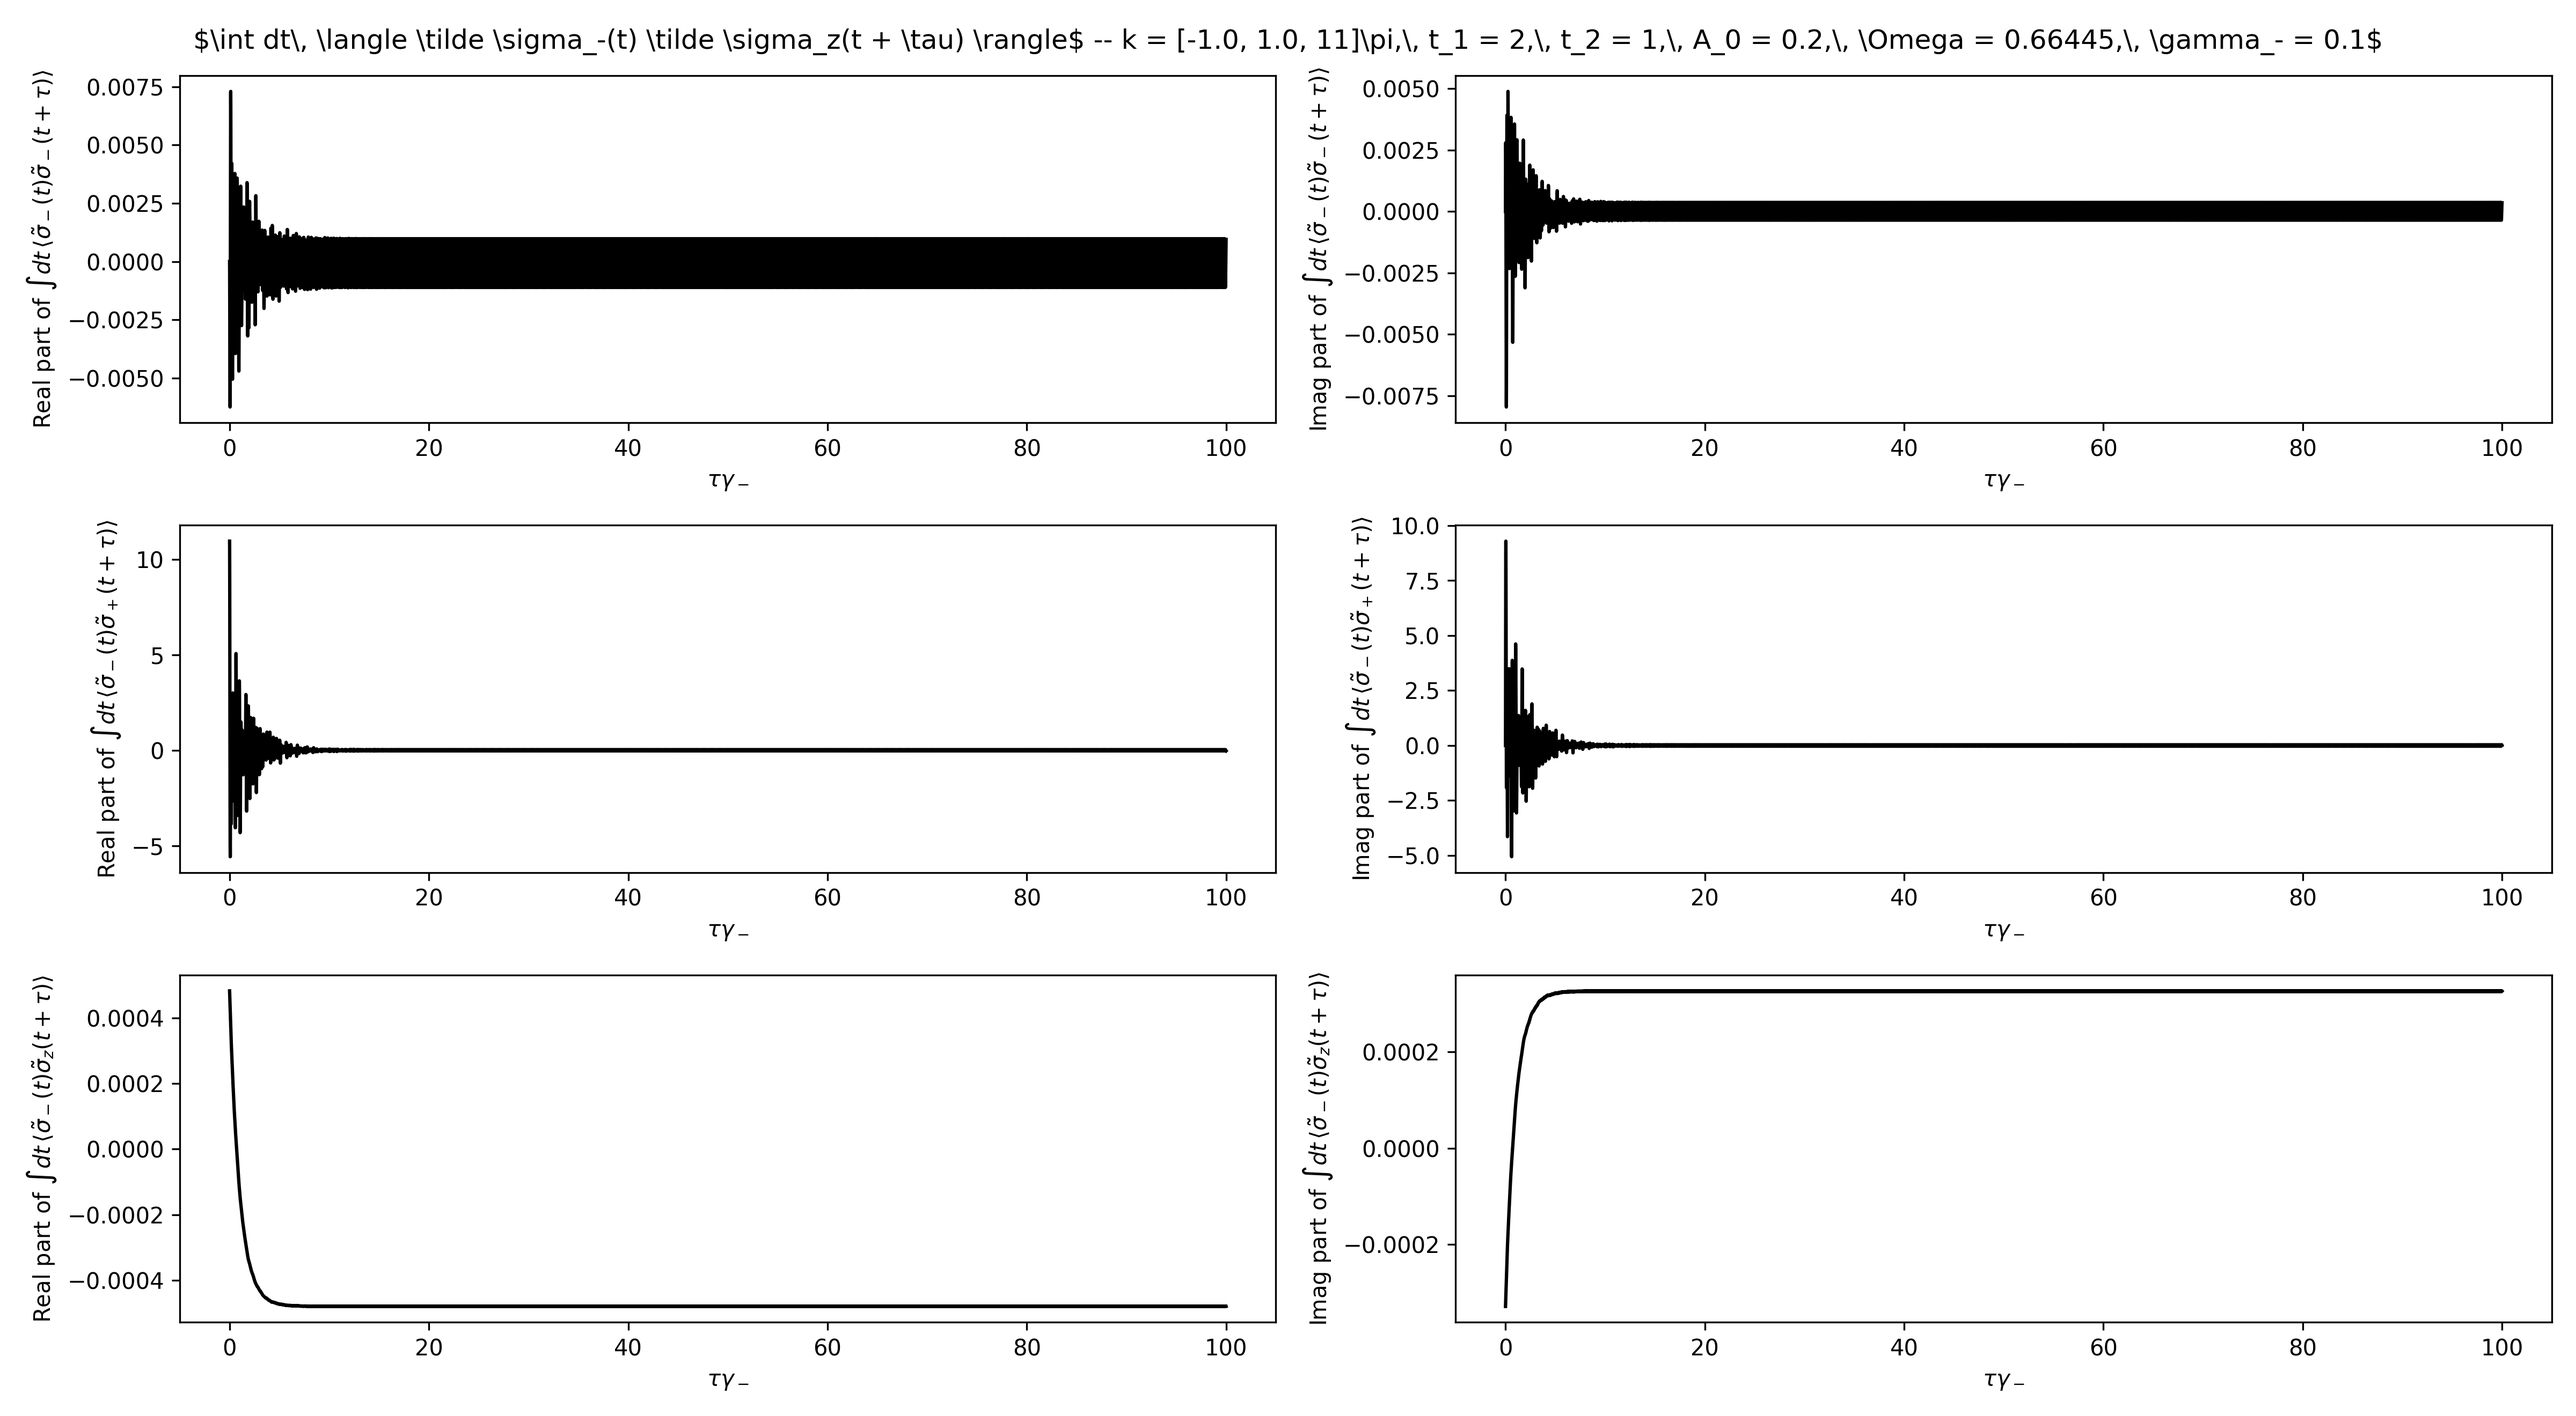
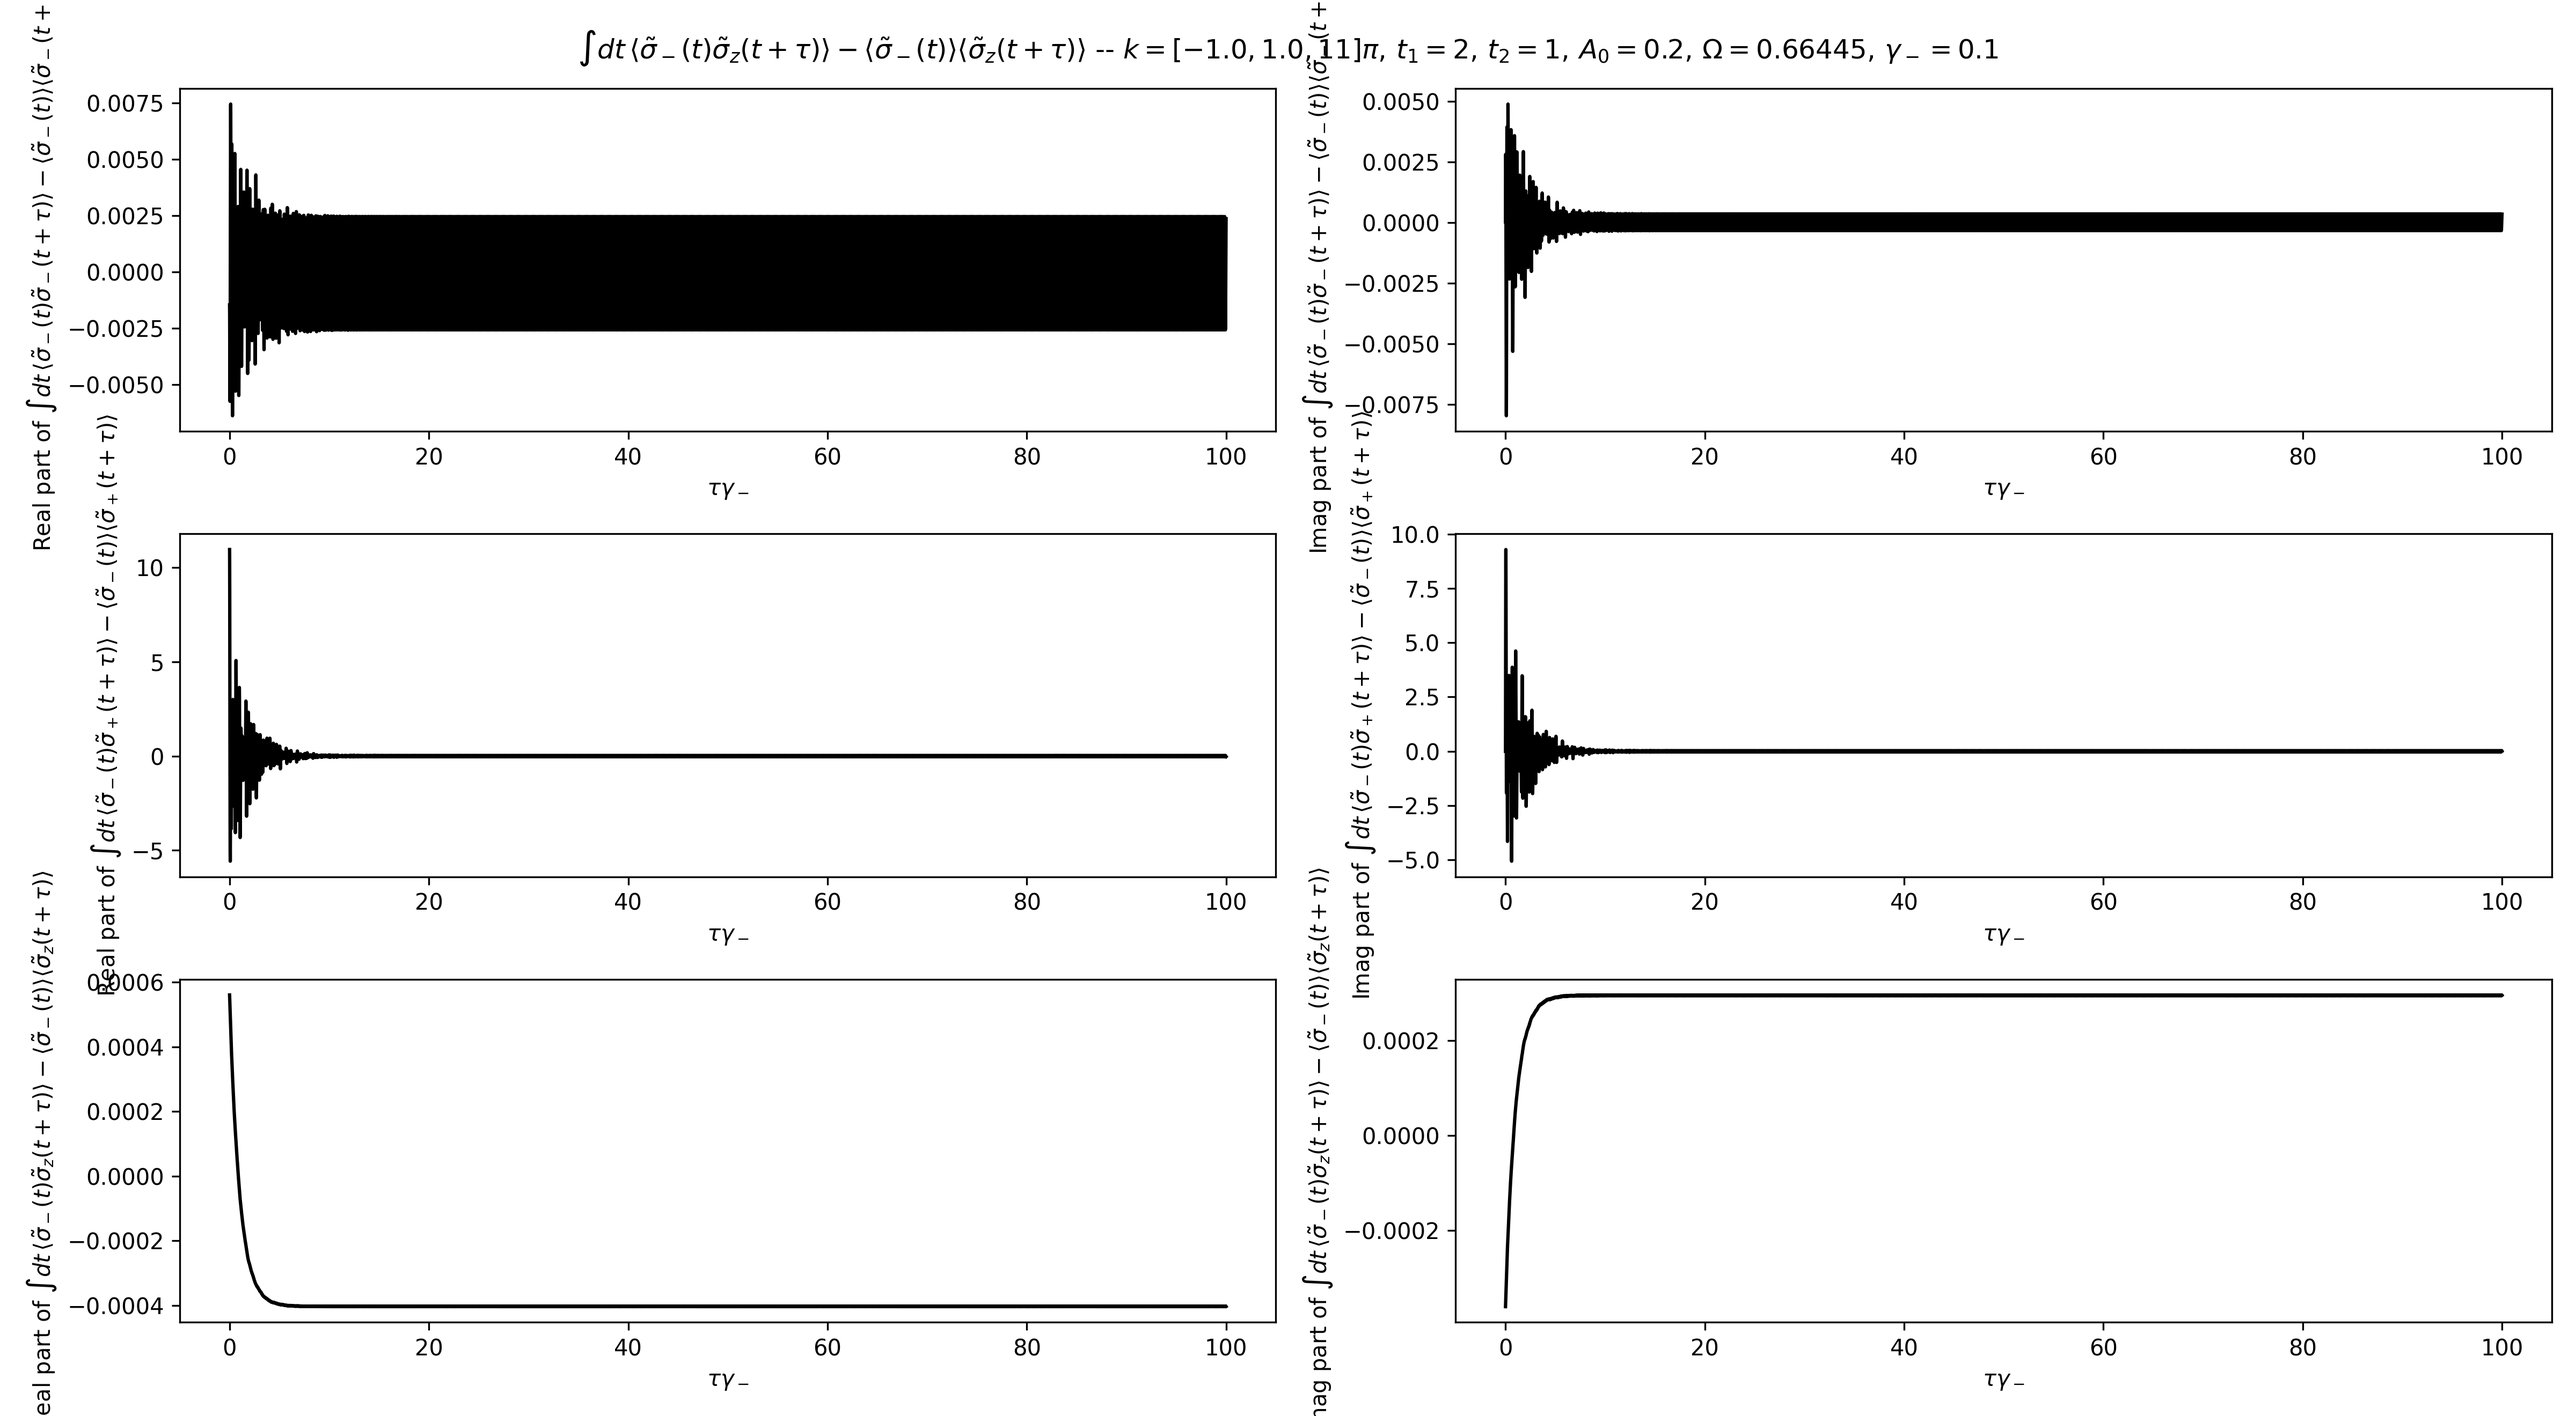
Fixed minor bug in the plot titles, still has more errors. The double-time correlation plots are really confusing me, I don't think they're right. This may be the problem. This is good.

diff --git a/1d-ssh-model.py b/1d-ssh-model.py
@@ -41,5 +41,5 @@ if __name__ == "__main__":
     vis.PlotIntegratedDoubleTimeCurrentCorrelation(saveFig=True, show=False)
     vis.PlotIntegratedDoubleTimeCurrentProduct(saveFig=True, overplotManualProduct=True, show=False)
 
-    vis.PlotDoubleTimeTIntegratedCorrelations(saveFigs = True, show = False)
-    vis.PlotDoubleTimeTIntegratedCorrelations(saveFigs = False, show = False)
+    vis.PlotDoubleTimeTIntegratedCorrelations(saveFigs = True, show = False, subtractUncorrelatedValues=True)
+    vis.PlotDoubleTimeTIntegratedCorrelations(saveFigs = True, show = False, subtractUncorrelatedValues=False)

diff --git a/SSHModel/SSHVisualiser.py b/SSHModel/SSHVisualiser.py
@@ -270,9 +270,9 @@ class SSHVisualiser:
 
             if saveFigs:
                 if subtractUncorrelatedValues:
-                    plt.savefig(f"plots/[{subscripts[i]}] Integrated Double-Time Correlators.png", dpi=300)
-                else:
                     plt.savefig(f"plots/[{subscripts[i]}] Integrated Double-Time Connected Correlators.png", dpi=300)
+                else:
+                    plt.savefig(f"plots/[{subscripts[i]}] Integrated Double-Time Correlators.png", dpi=300)
 
             if show:
                 plt.show()
